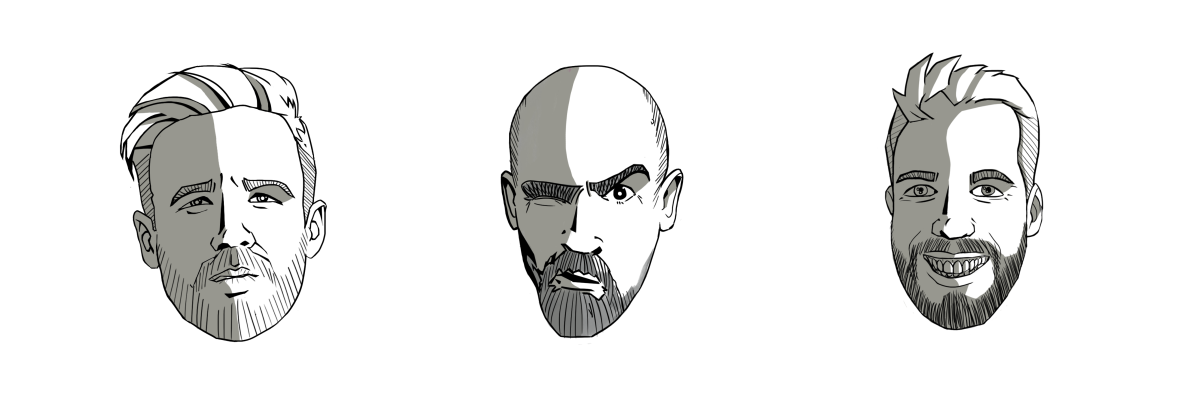
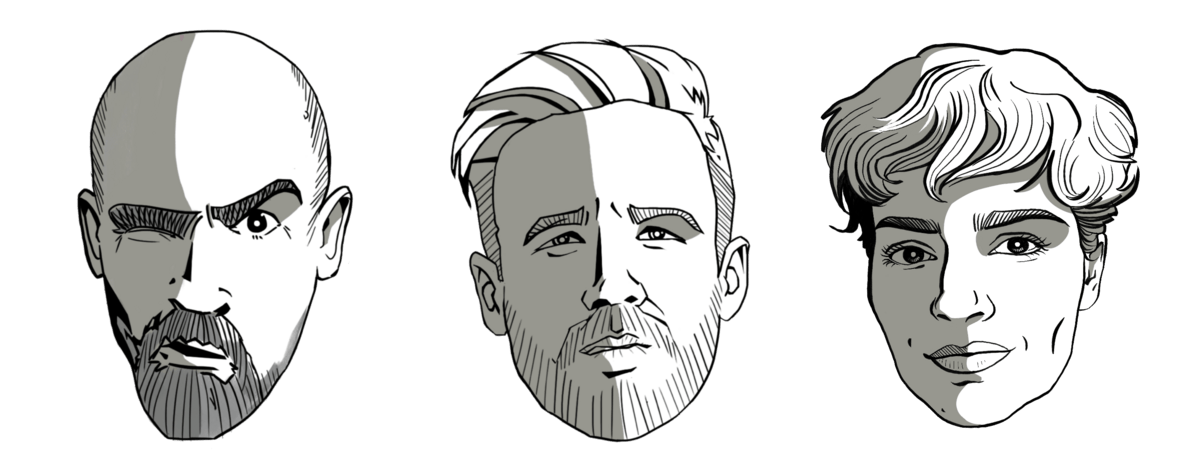
Finish FIXKIN landing pages

diff --git a/index.html b/index.html
@@ -13,8 +13,9 @@
           <img class="logo" src="/logo.png" alt="Sonderland">
         </a>
       </header>
-      <img class="heads" src="/heads.png" alt="Michael, Mario & Mathias">
-      <p class="center mv">We are two neighbours in Berlin and an old friend in Vancouver who make small, self-aware games we love to play. Hopefully you will too.</p>
+      <img class="heads" src="/heads.png" alt="Mario, Michael & Pascale">
+      <p class="center mv">We are three close friends from Berlin and Vancouver who make small, self-aware games we love to play. Hopefully you will too.</p>
+      <a class="game primary" href="/fixkin/"><img src="/fixkin/branding/capsule.png" alt="Fixkin"></a>
       <div class="games">
         <a class="game" href="/landnama/"><img src="/landnama/branding/capsule.png" alt="Landnama"></a>
         <a class="game" href="/bella-wants-blood/"><img src="/bella-wants-blood/branding/capsule.png" alt="Bella Wants Blood"></a>

diff --git a/styles.css b/styles.css
@@ -216,3 +216,9 @@ ul.nav li {
   max-width: 250px;
   margin: 5px;
 }
+
+.primary {
+  display: block;
+  max-width: 510px;
+  margin: 0 auto;
+}
